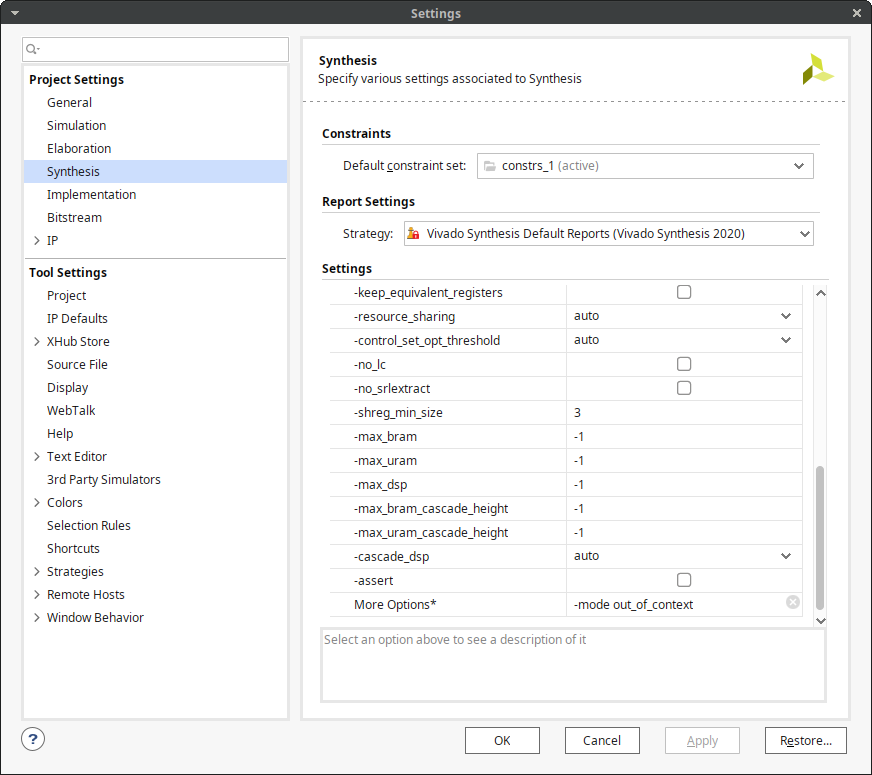
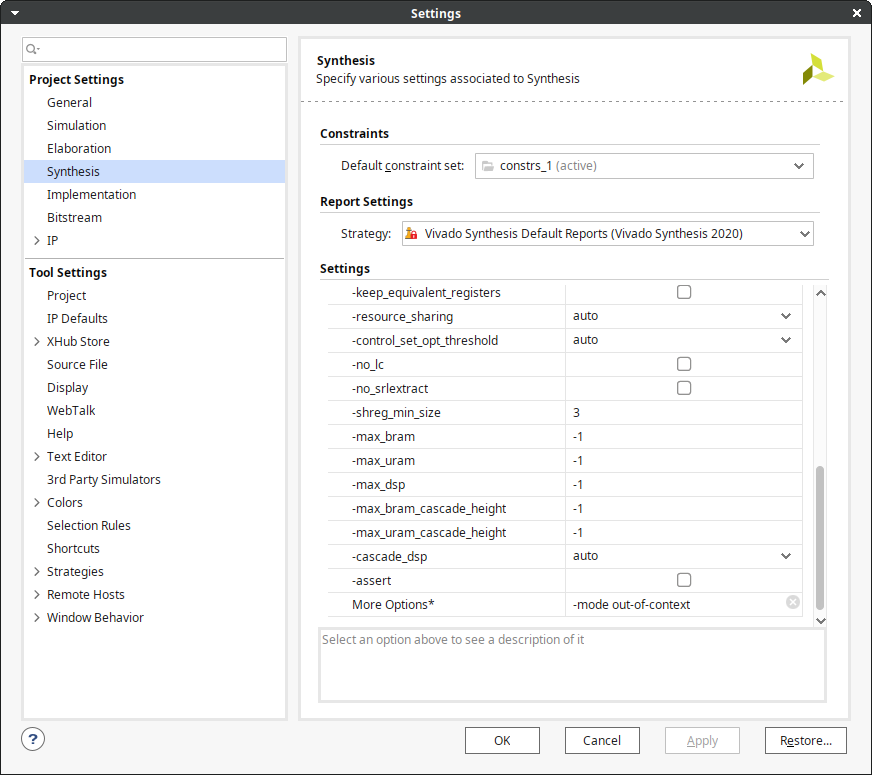
_ TO -

diff --git a/content/50_QOI/55_project.md b/content/50_QOI/55_project.md
@@ -16,7 +16,7 @@ To obtain the resource usage of a design, an implementation has to be done. The 
 
 This can be done through this change, in the syntheses settings:
 
-> -mode out_of_context
+> -mode out-of-context
 
 {{% multiHcolumn %}}
 {{% column %}}
